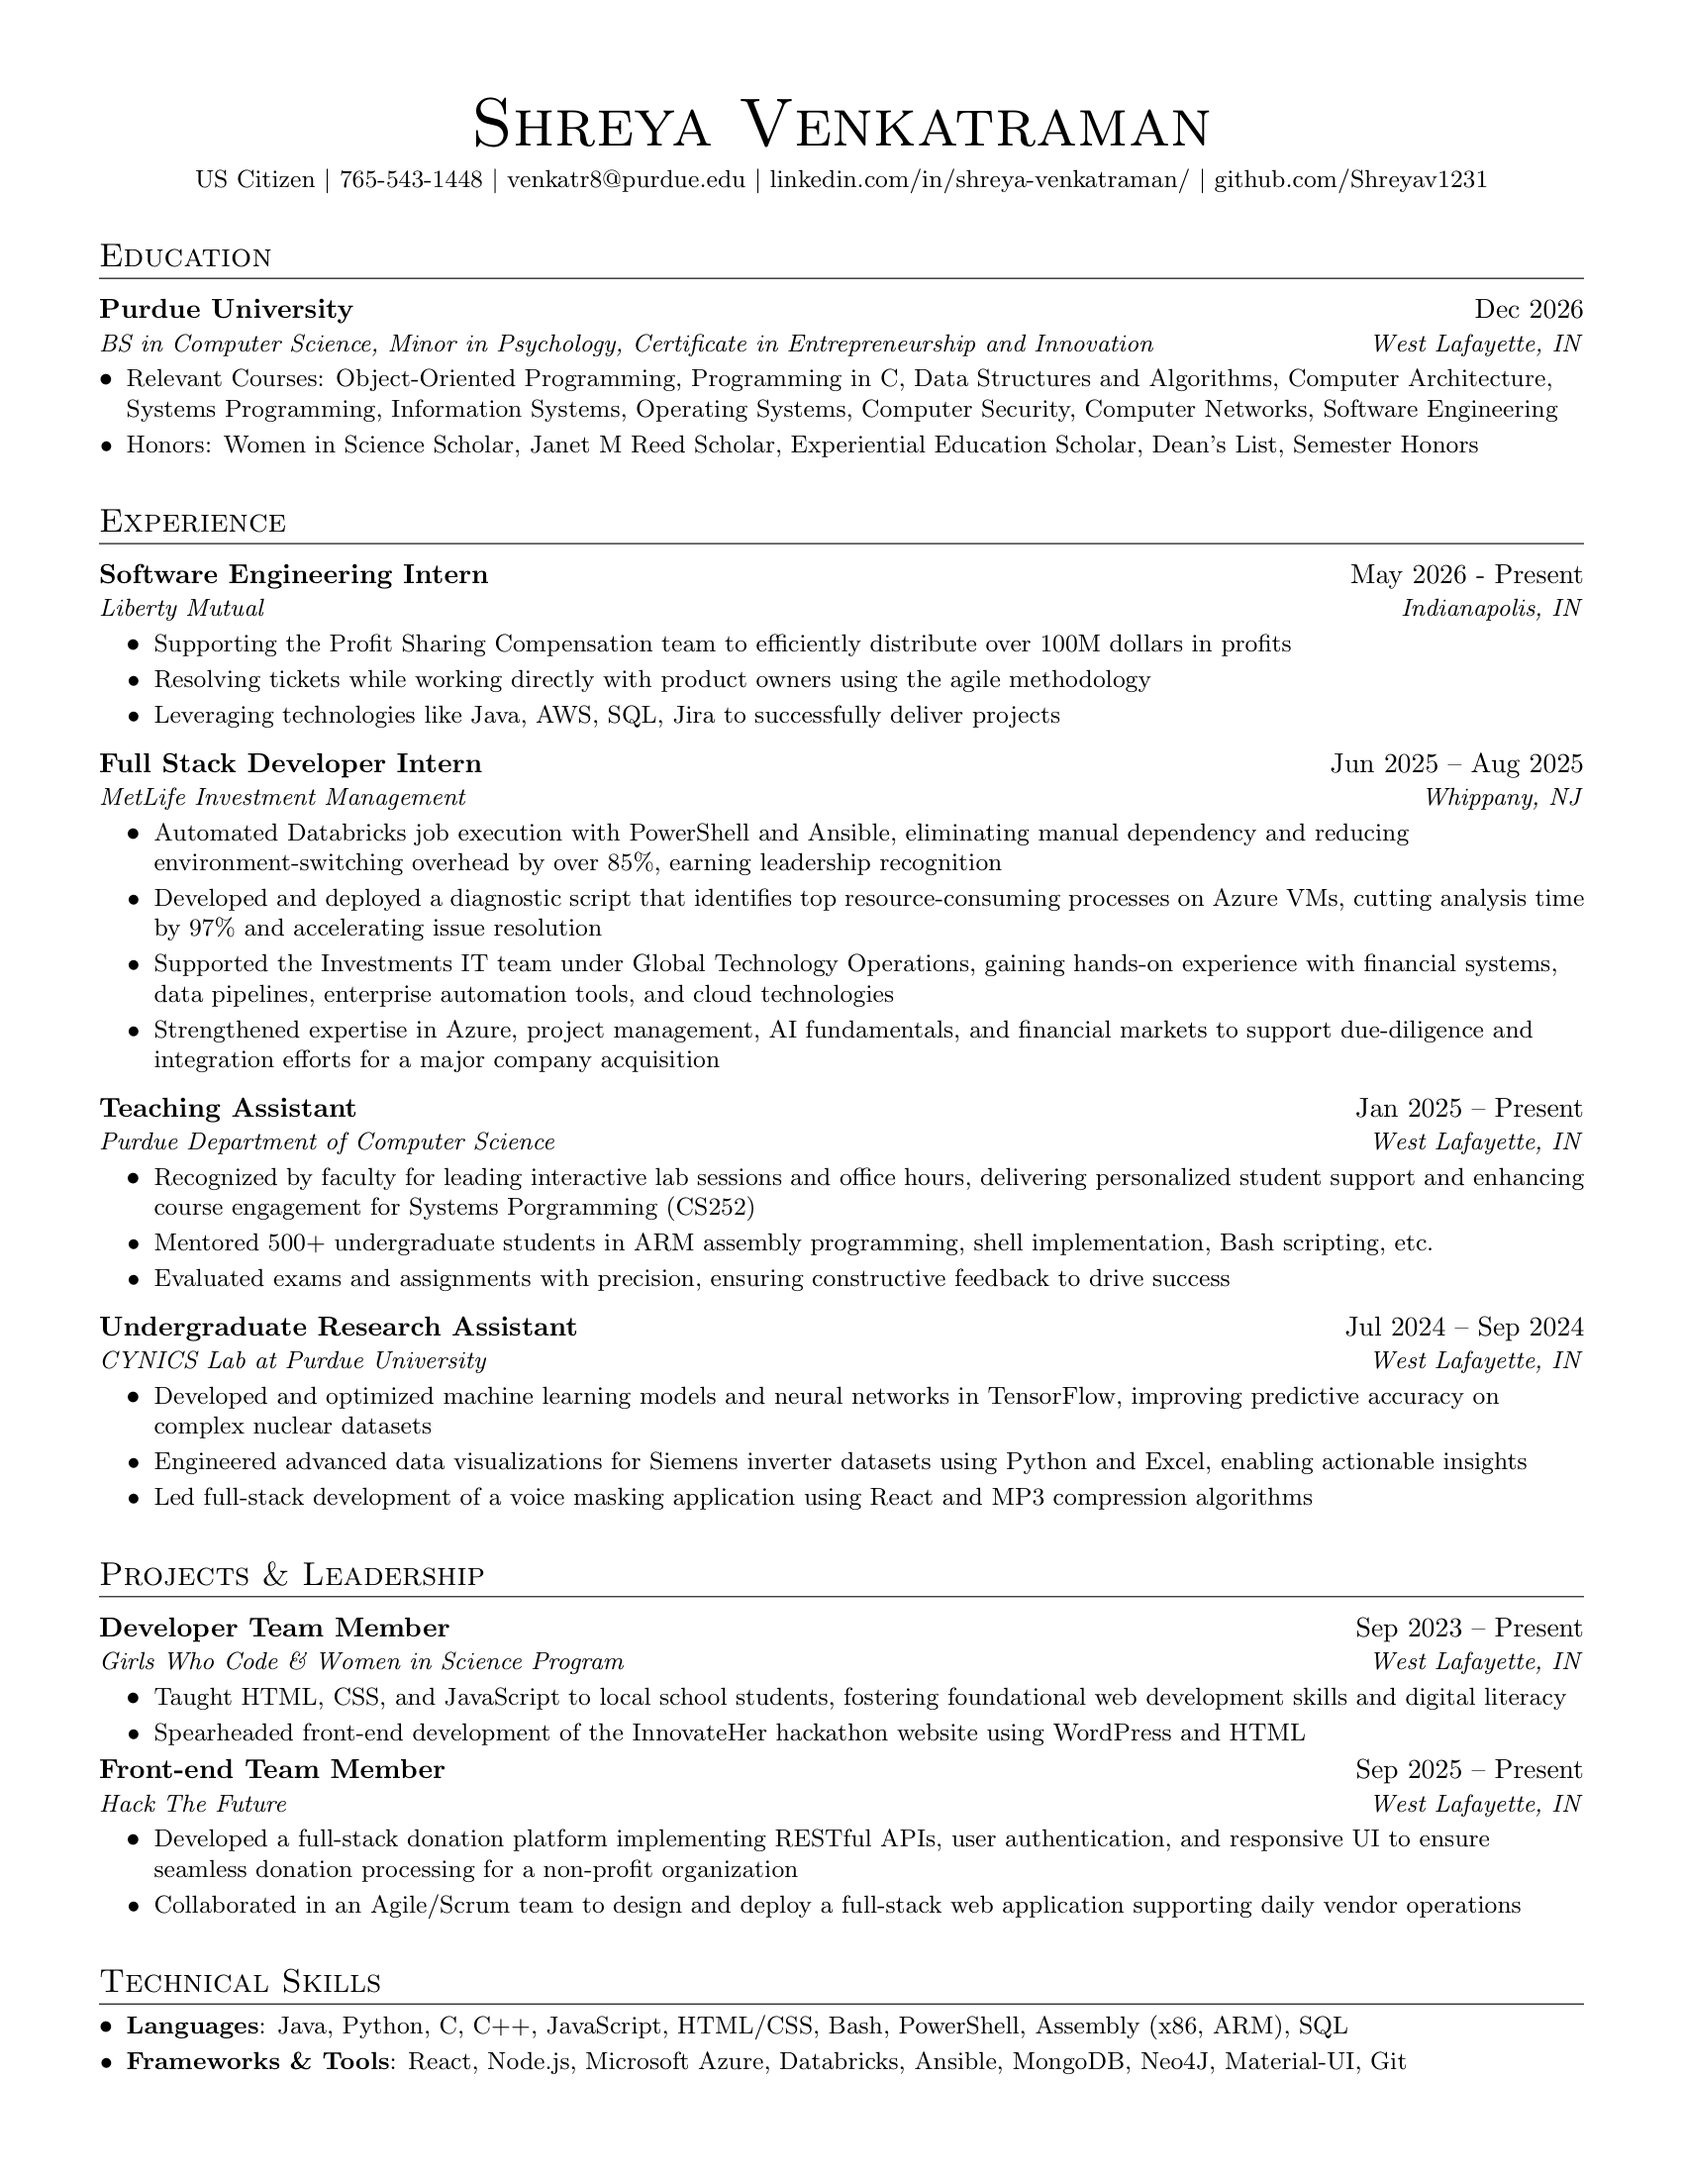
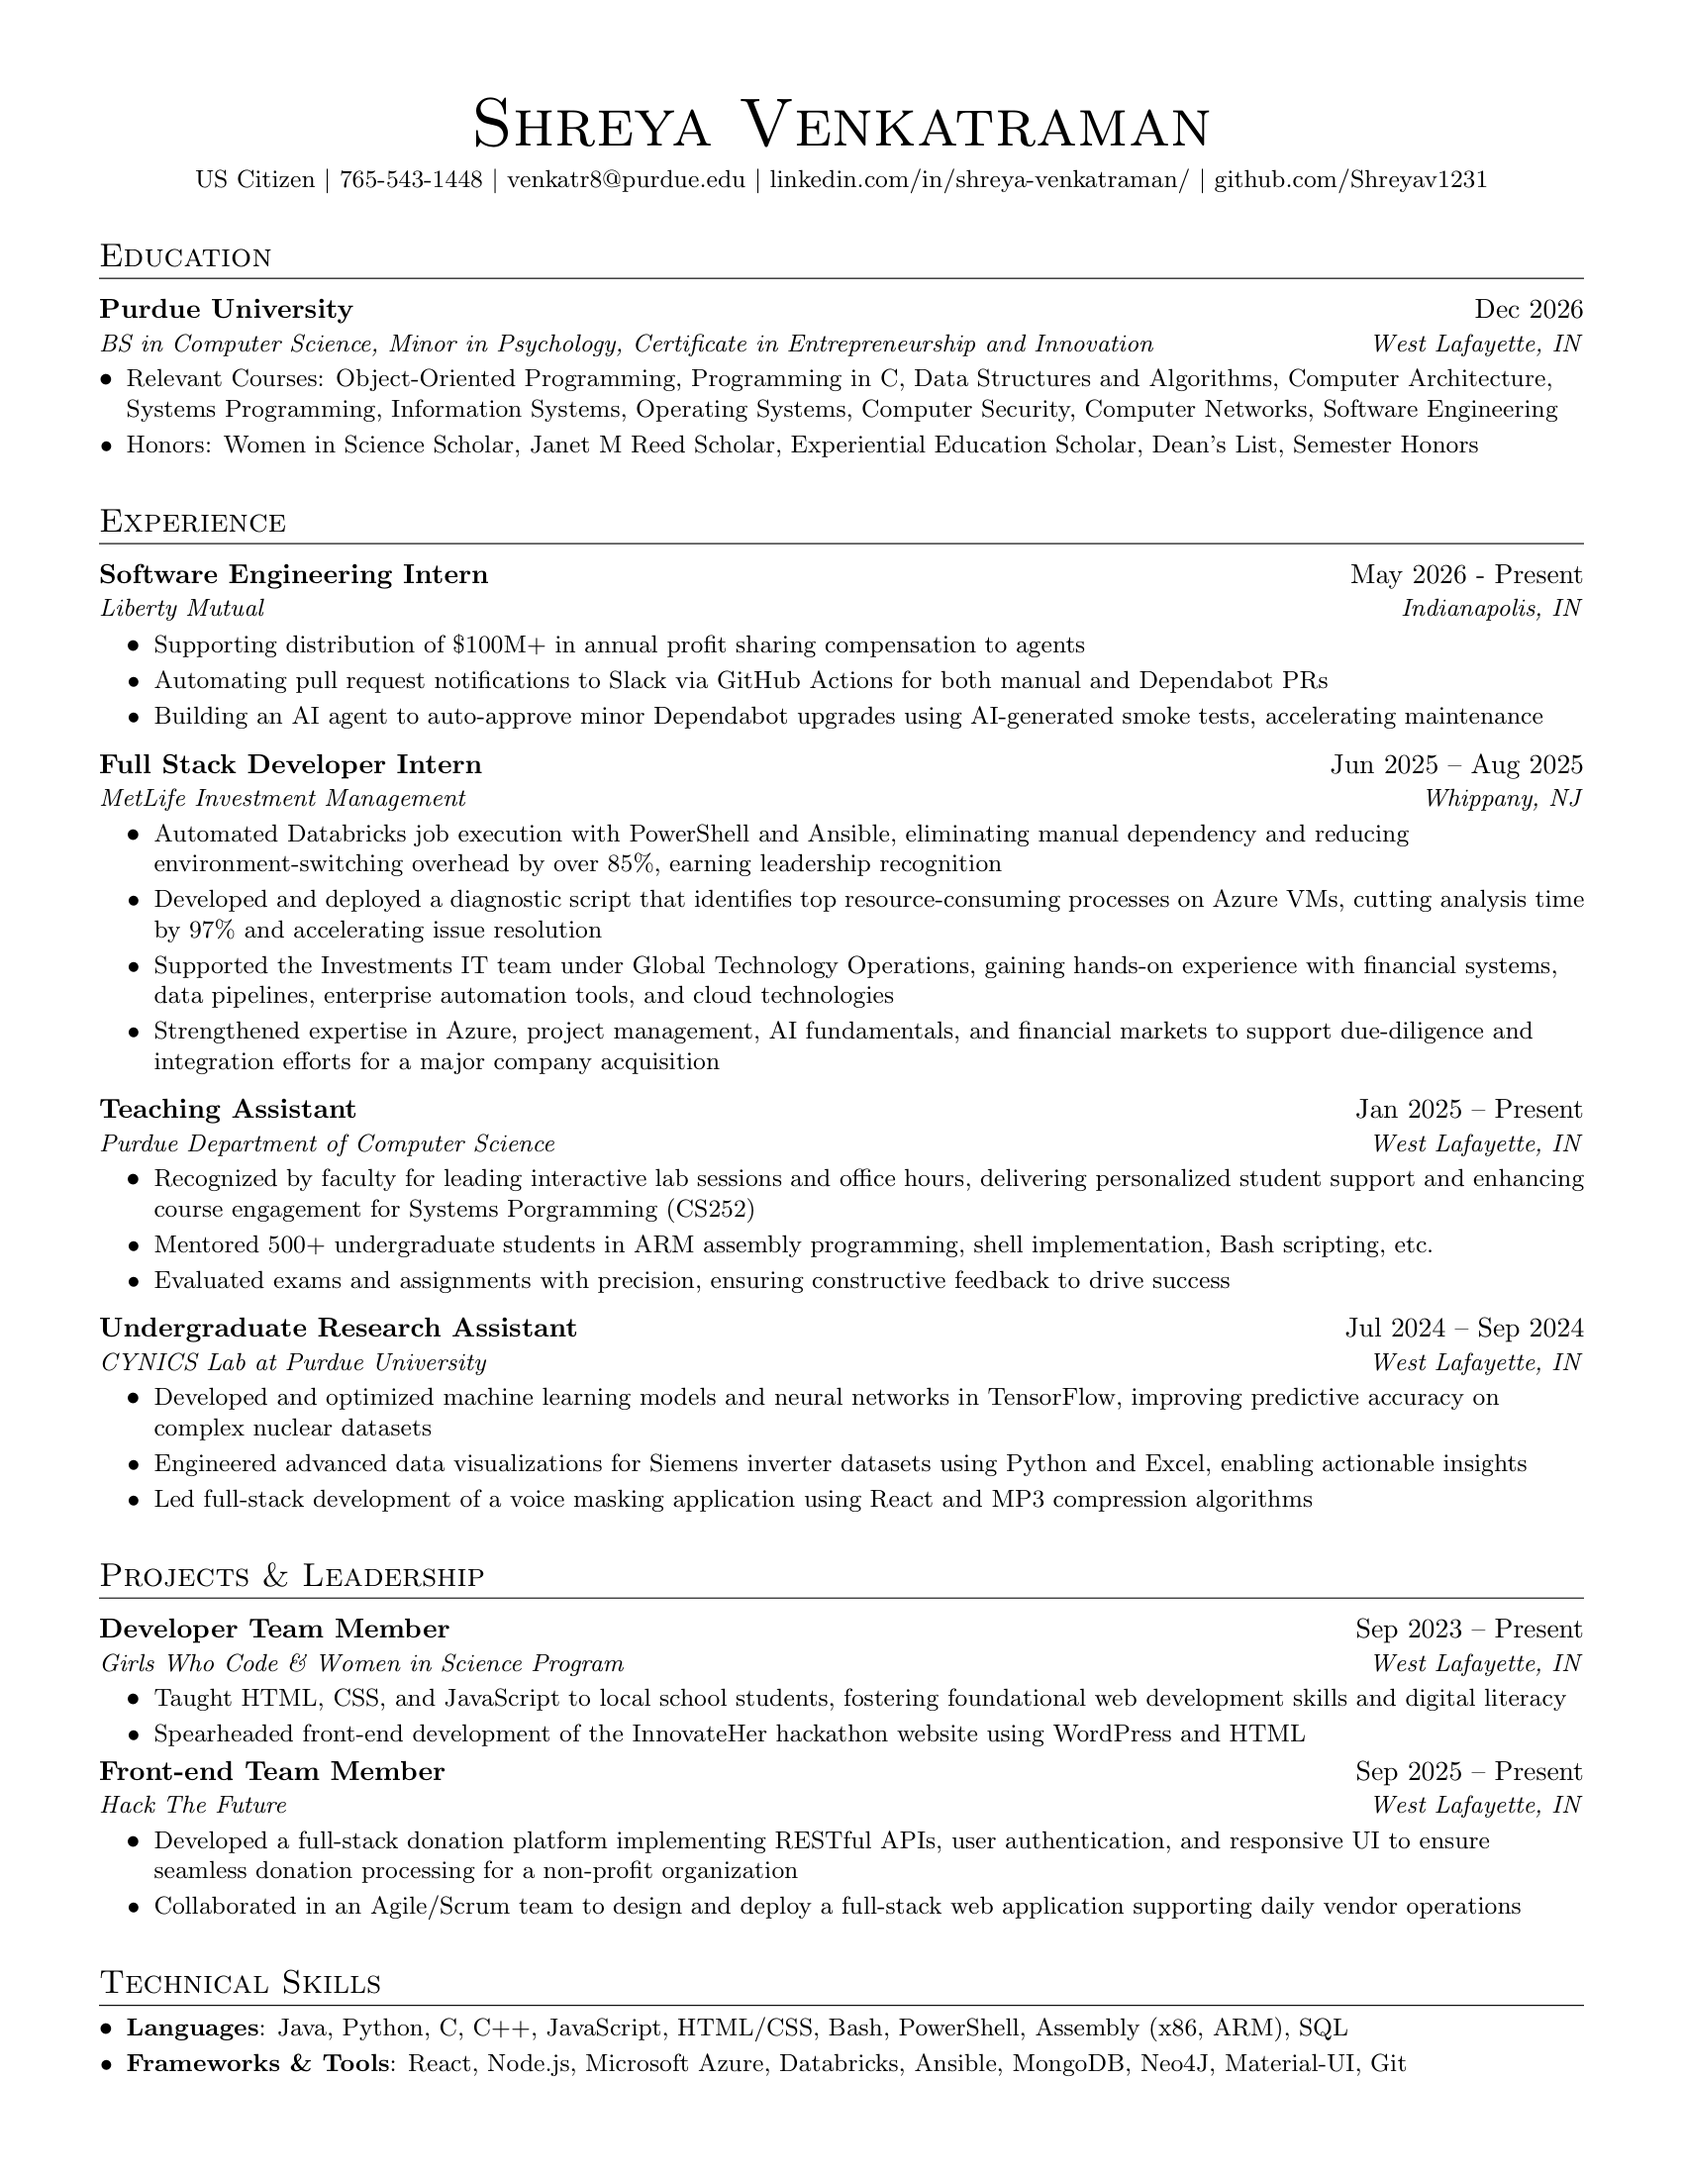
Project descriptions, better resume

diff --git a/src/components/Modal.jsx b/src/components/Modal.jsx
@@ -11,9 +11,21 @@ function ProjectsGrid() {
         <h3 className="modal-project-title">{selected.title}</h3>
 
         <div className="modal-project-links">
-          <a href={selected.github} target="_blank" rel="noopener noreferrer">
-            View on GitHub
-          </a>
+          {selected.links?.[0] && (
+            <a href={selected.links[0]} target="_blank" rel="noopener noreferrer">
+              View on GitHub
+            </a>
+          )}
+          {selected.links?.[1] && (
+            <a href={selected.links[1]} target="_blank" rel="noopener noreferrer">
+              Try it out
+            </a>
+          )}
+          {selected.links?.[2] && (
+            <a href={selected.links[2]} target="_blank" rel="noopener noreferrer">
+              Devpost
+            </a>
+          )}
         </div>
 
         <div className="modal-project-images">
